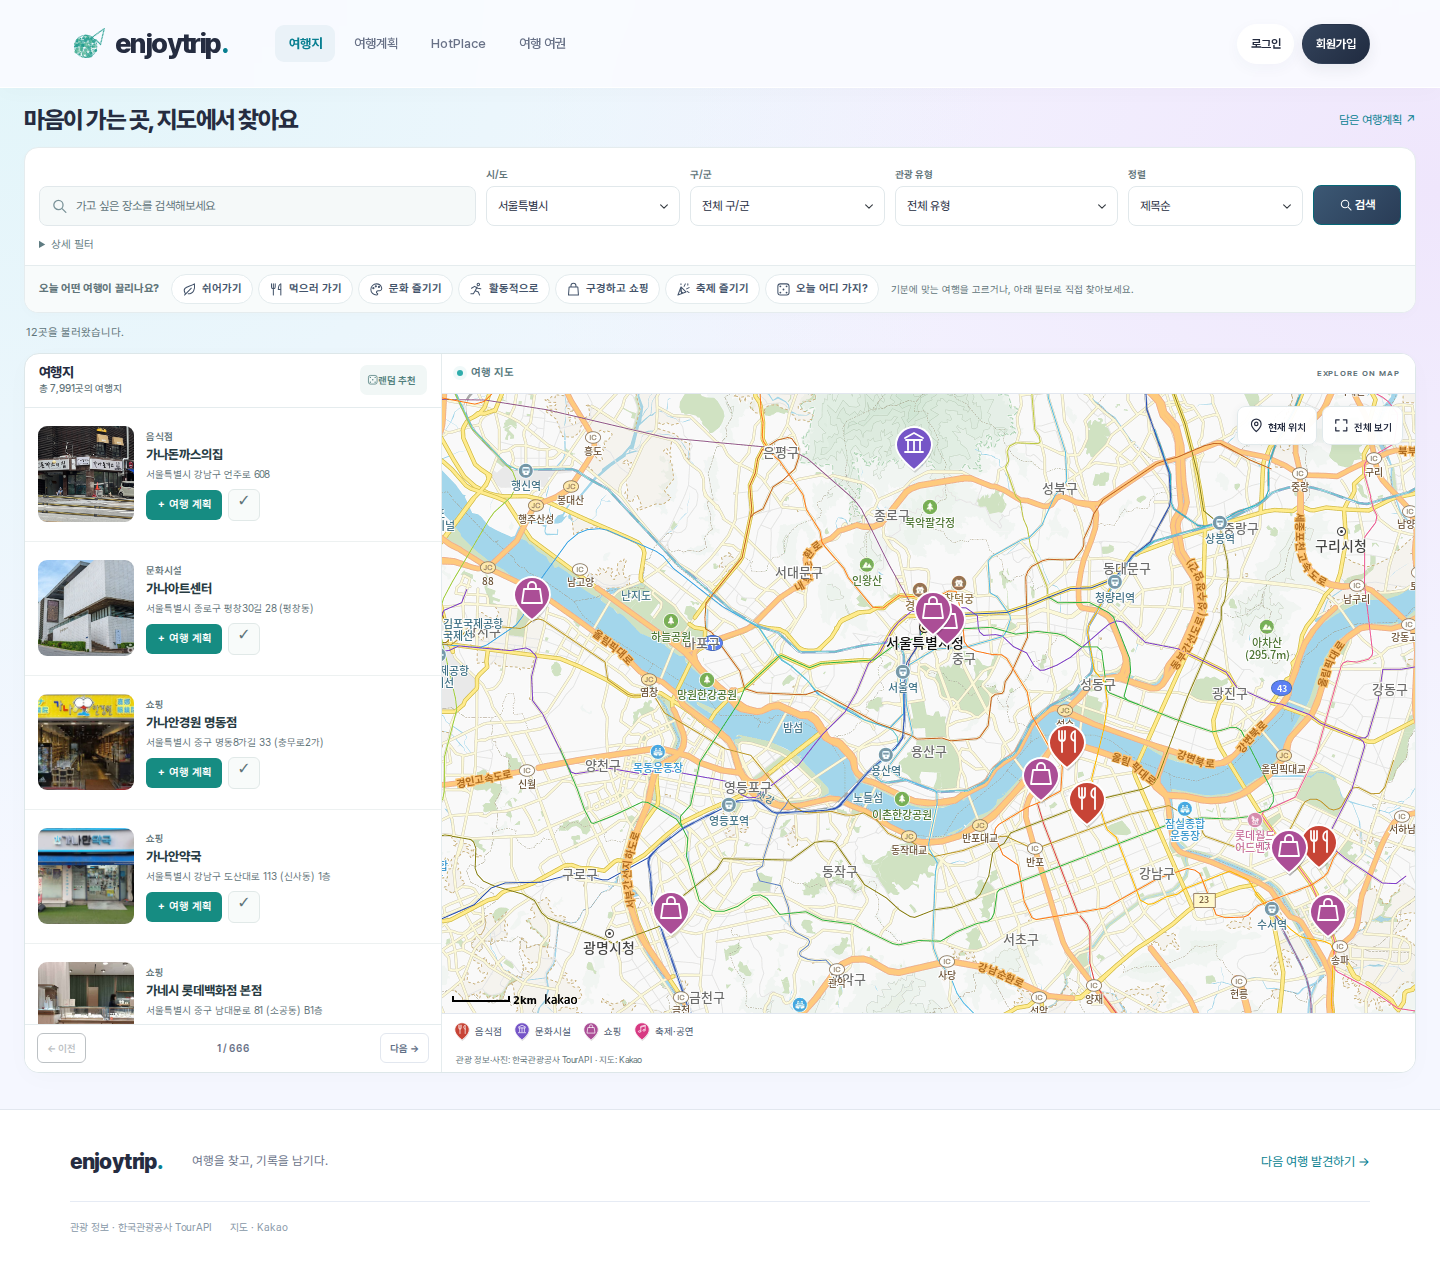
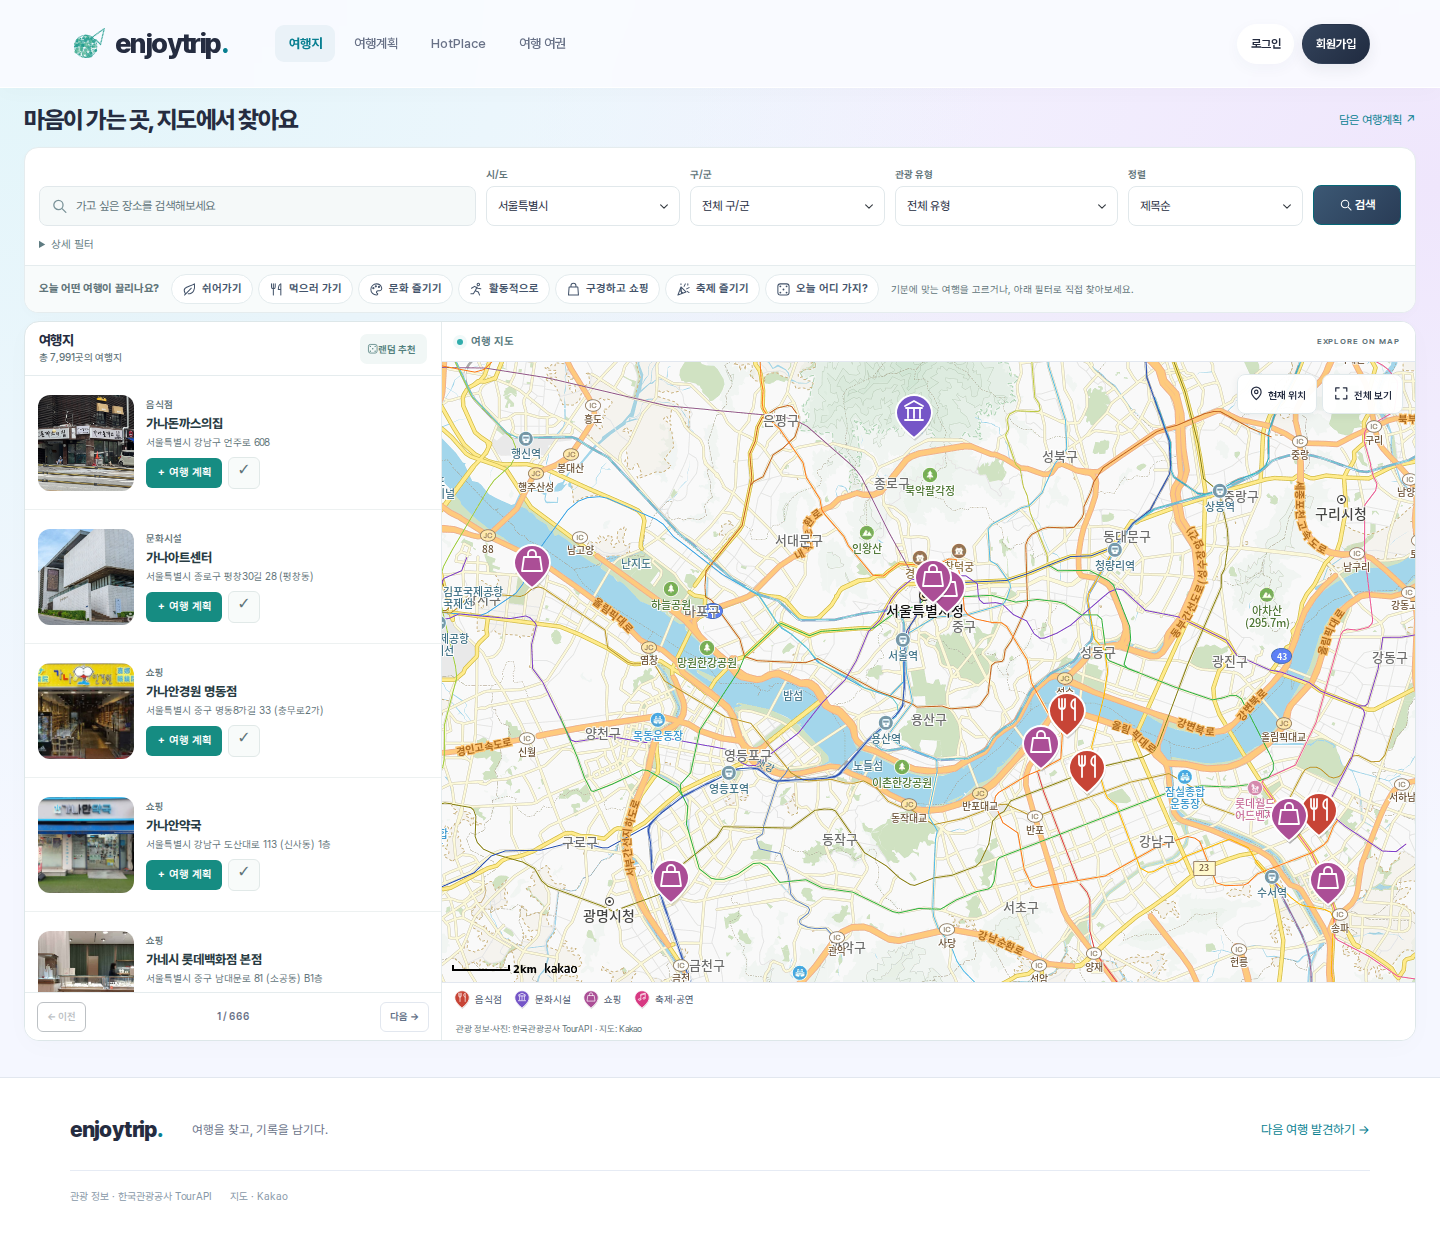
style: redesign destination map explorer

diff --git a/assets/css/trip.css b/assets/css/trip.css
@@ -264,6 +264,10 @@
 .page-trip #statusMessage.alert-warning {
   color: #946b20;
 }
+.page-trip #statusMessage.visually-hidden {
+  margin: 0;
+  padding: 0;
+}
 
 /* One workspace: the list scrolls while its heading and pagination stay put. */
 .page-trip .trip-workspace {
@@ -420,7 +424,7 @@
   height: 96px;
   min-height: 0;
   aspect-ratio: 1;
-  border-radius: 9px;
+  border-radius: 12px;
 }
 .page-trip #tourList .tour-card .image-placeholder {
   min-height: 0;
@@ -436,6 +440,14 @@
 }
 .page-trip #tourList .tour-card .image-placeholder small {
   display: none;
+}
+.page-trip #tourList .tour-card .image-placeholder span {
+  display: none;
+}
+.page-trip #tourList .tour-card .image-placeholder::after {
+  content: "사진 없음";
+  color: var(--trip-muted);
+  font-size: 10px;
 }
 .page-trip #tourList .tour-card .card-body {
   min-width: 0;
@@ -555,7 +567,7 @@
   height: 96px;
   min-height: 0;
   aspect-ratio: 1;
-  border-radius: 9px;
+  border-radius: 12px;
 }
 .page-trip #tourList .skeleton-copy {
   gap: 10px;

diff --git a/js/pages/trip.js b/js/pages/trip.js
@@ -117,6 +117,9 @@ contentTypeSelect.innerHTML = '<option value="">전체 유형</option>' + Object
 
 function setStatus(message, type = "light") {
   $("statusMessage").className = `alert alert-${type} border`;
+  // The list heading already shows the total. Keep the repeated success message
+  // available to screen readers, while search context and warnings stay visible.
+  $("statusMessage").classList.toggle("visually-hidden", type === "success" && /^\d+곳을 불러왔습니다\.$/.test(message));
   $("statusMessage").textContent = message;
 }
 function setBusy(busy) {

diff --git a/docs/trip-redesign.md b/docs/trip-redesign.md
@@ -1,0 +1,18 @@
+# 여행지 Explorer 정리
+
+이번 작업의 원격 체크포인트는 `3d07cf6c719c9d5a91f86da656f68645250e19a3`이며, `origin/ui/trip-map-layout`에 push했습니다. 작업 전 변경사항이 없어 같은 파일 상태를 가리키는 checkpoint commit으로 남겼습니다.
+
+체크포인트에는 이전 작업의 30:70 여행지 레이아웃이 이미 들어 있습니다. 기존 구현을 초기화하지 않고 이어서 다듬었습니다. 따라서 이번 `style: redesign destination map explorer` 커밋만 revert하면 체크포인트의 여행지 화면으로 돌아갑니다.
+
+- 하나의 목록·지도 공간, 134px 행과 96px 사진, 독립 스크롤·하단 페이지 이동을 유지합니다.
+- 제목은 기존 상세보기, 행은 지도 선택, `＋ 여행 계획`은 기존 초안 저장으로 연결합니다.
+- 검색어·지역·분류·유형·정렬·무드와 원석 스타일 카테고리 핀은 그대로 사용합니다.
+- 일반 검색 성공의 반복 메시지는 스크린리더에만 전달하고, 화면에서는 목록 헤더의 전체 결과 수를 표시합니다. 검색어·거리·좌표 누락 설명과 오류 안내는 계속 보입니다.
+- 대표 이미지·보조 이미지·실패 fallback의 처리 흐름은 유지합니다. 목록의 placeholder만 작은 아이콘과 `사진 없음`으로 표시하고 사진·스켈레톤 모서리를 12px로 통일합니다.
+- 모바일은 검색 → 지도 → 목록 순서입니다.
+
+검증 명령은 기존 `npm test`, `test:browser`, `test:features`, `test:integration`, `test:hotplace`, `test:trip-layout`, `test:live`입니다. 실연동 캡처에는 `LIVE_SCREENSHOT_DIR=test-results/redesign-trip-live`를 사용해 다른 화면의 이전 캡처를 보존합니다.
+
+이번 화면 변경은 `js/api/`, `js/map/`, `js/services/`, 설정 및 LocalStorage 구조를 수정하지 않습니다. 새 Home·HotPlace 작업은 별도 커밋으로 관리합니다.
+
+최종 회귀 결과: 서비스 39, Browser 20, Features 12, Integration 16, HotPlace 11, Trip layout 9, 실제 API·Kakao 13 — 총 120개 모두 PASS. 실제 연동의 runtimeErrors / consoleErrors / failedRequests는 0 / 0 / 0입니다. Chromium에서 1920·1440·1024·768·390px 가로 넘침 없이 확인했고, 실제 응답 캡처 3개를 `screenshots/trip-workspace-*-final.png`에 갱신했습니다.
